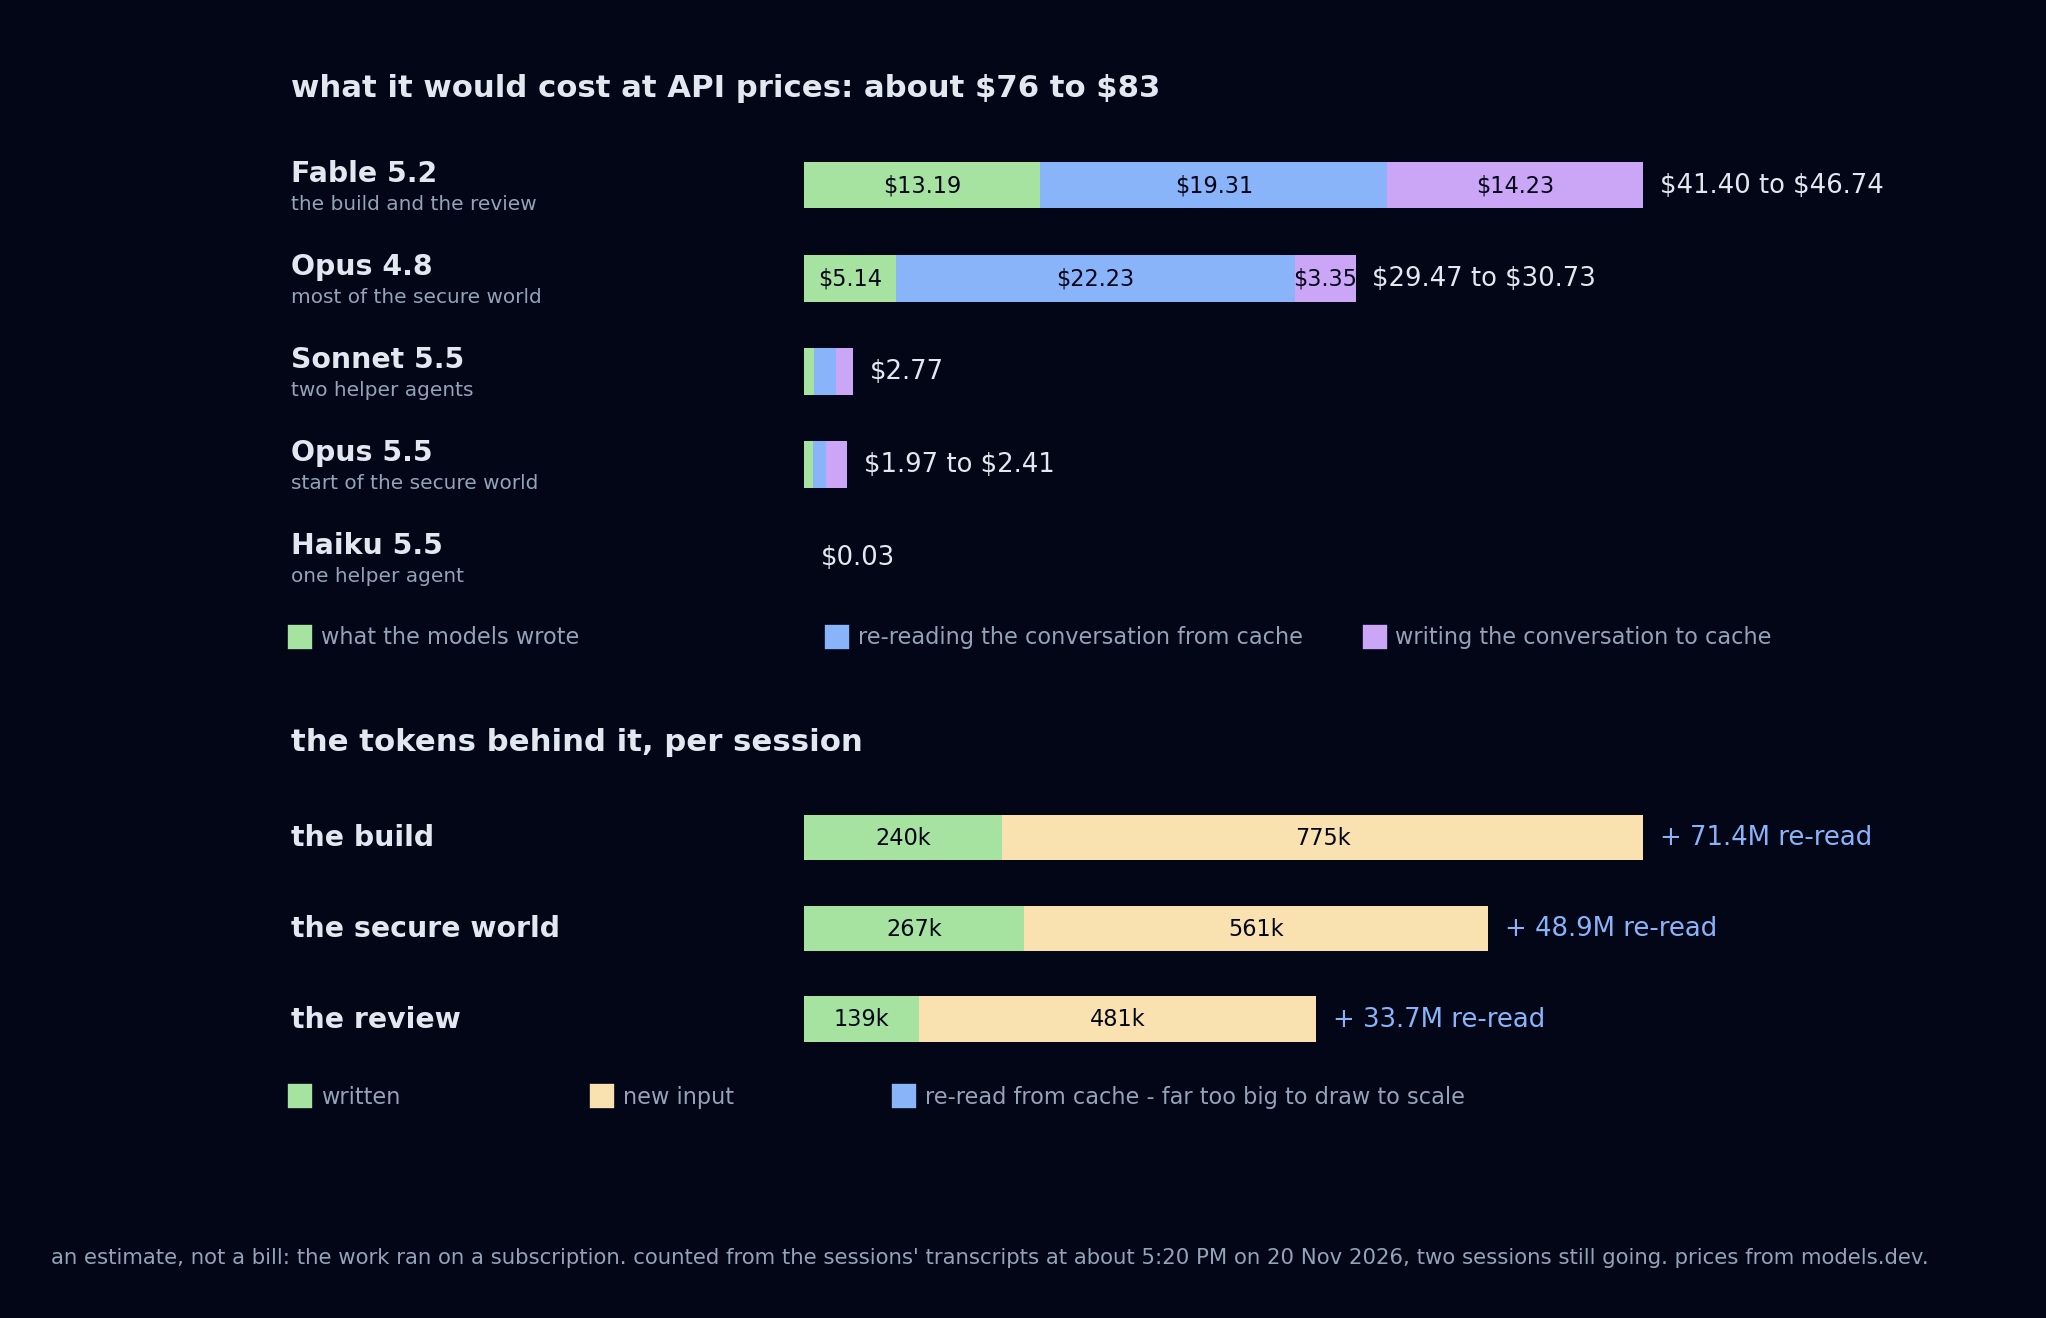
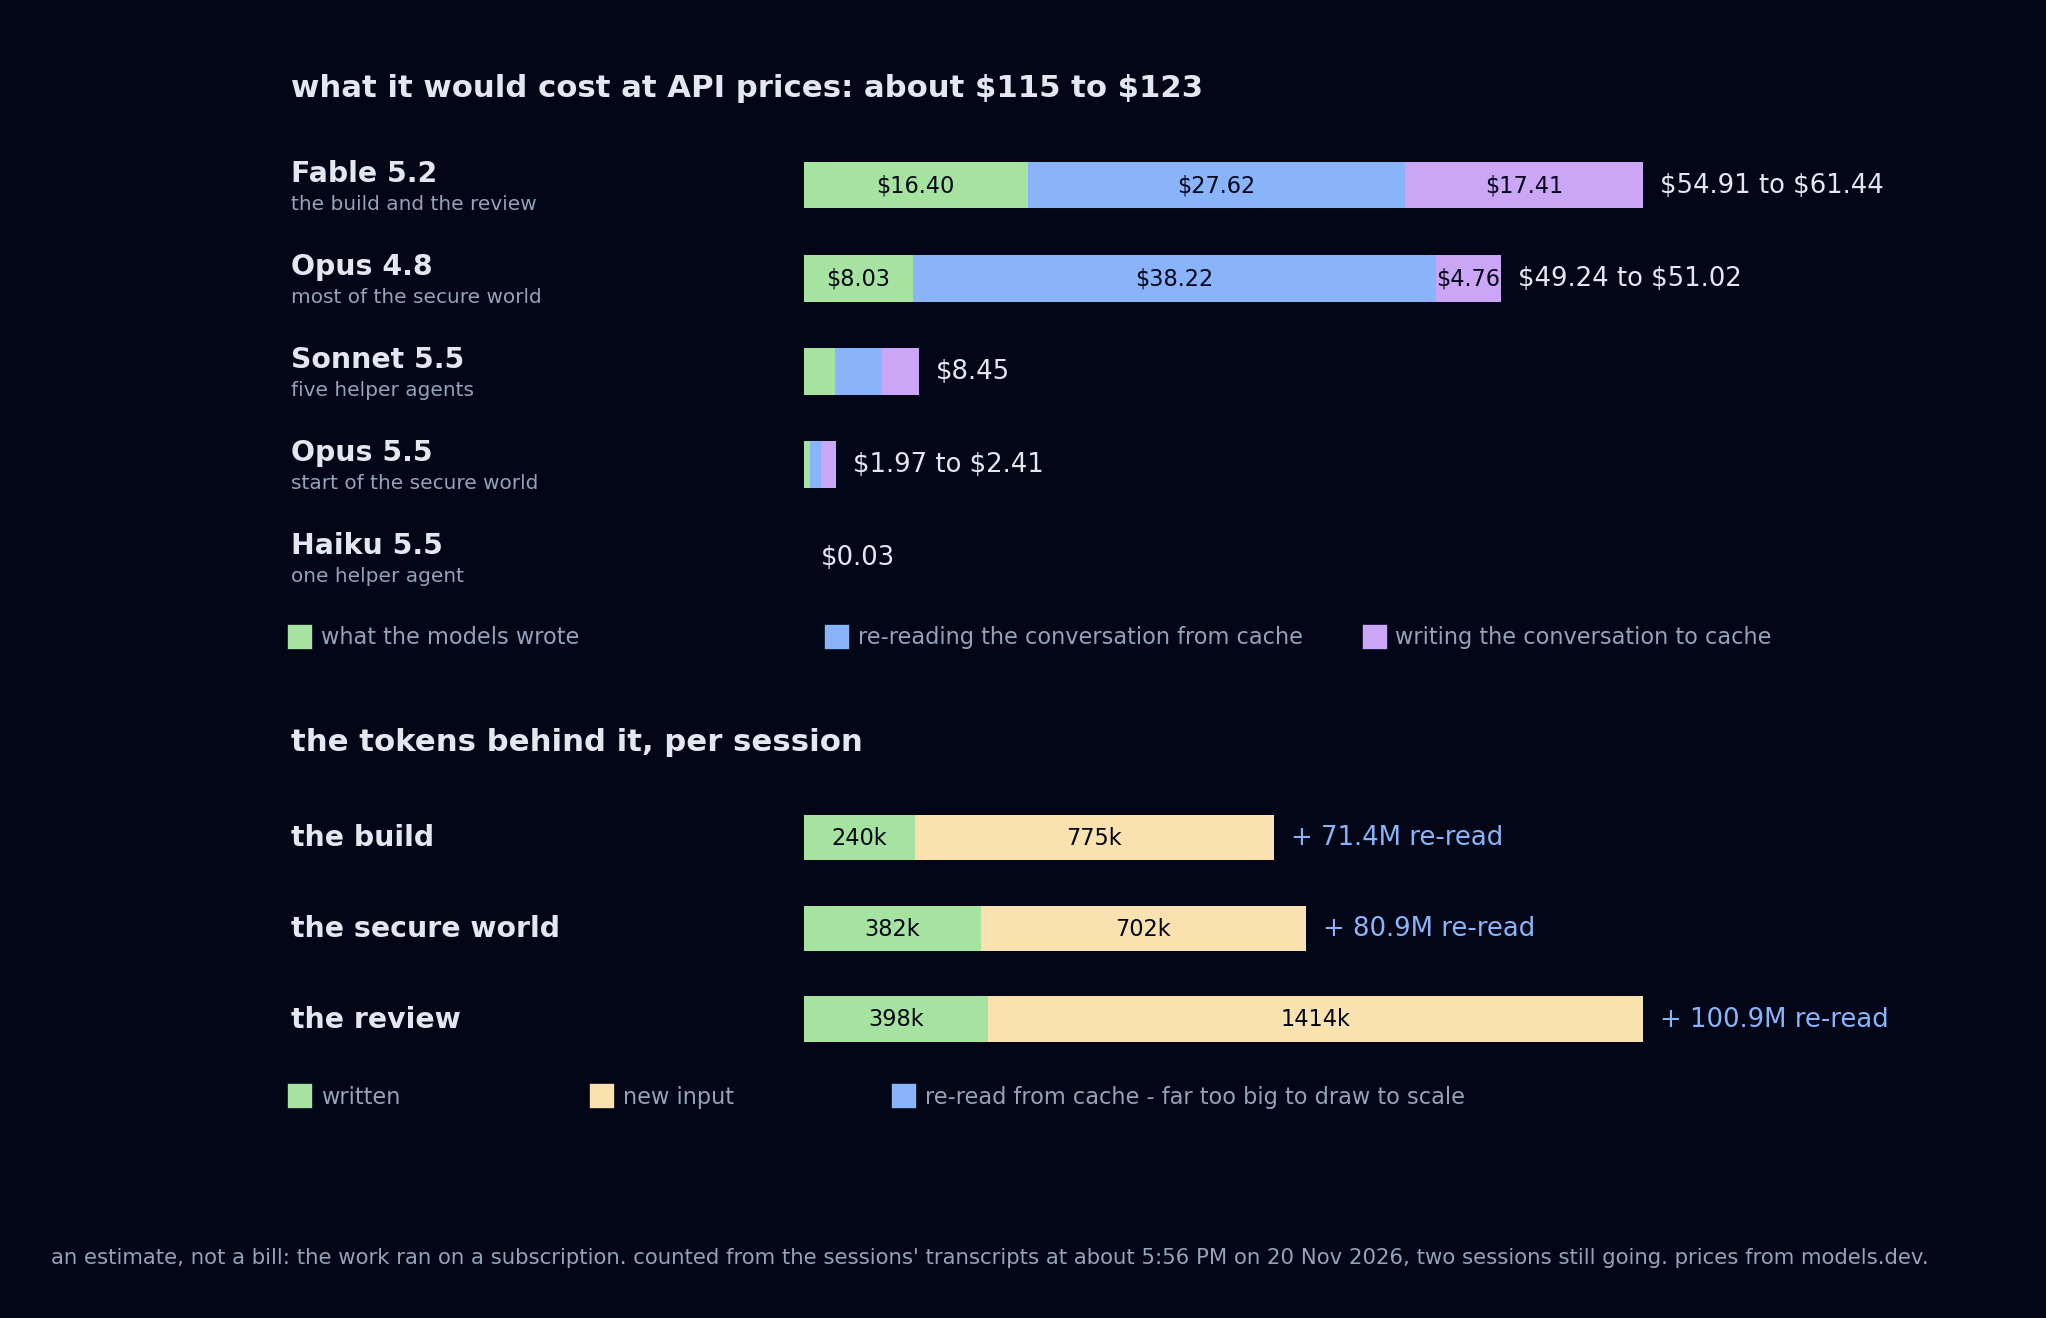
Charts redrawn from the 5:56 PM recount: 974 tool calls, about $115 to $123 at API prices
The recount takes in every helper agent of the three sessions (the diagram worker and both blind readers were not in the 5:20 PM snapshot) and 36 more minutes of work. Two sessions were still running, so it is still a snapshot.

diff --git a/tools/cost_chart.py b/tools/cost_chart.py
@@ -3,7 +3,7 @@
 and the tokens behind it.
 
 No firmware needed, the numbers are written in below. Tokens were counted from
-the three sessions' transcripts (and their helper agents) at about 5:20 PM on
+the three sessions' transcripts (and their helper agents) at about 5:56 PM on
 20 Nov 2026 with two sessions still going, so this is a snapshot. Prices are
 USD per million tokens from models.dev, read the same day. The work ran on a
 subscription: this is an estimate of the per-token price, not a bill.
@@ -28,17 +28,17 @@ OUT = "#a6e3a1"; READ = "#89b4fa"; WRITE = "#cba6f7"; NEW = "#f9e2af"
 # model, where it ran, uncached in, output, cache read, cache write,
 # prices (input, output, cache read, cache write), one-hour cache (True/False)
 MODELS = [
-    ("Fable 5.2", "the build and the review", 736, 329674, 96567949, 889380, (8, 40, 0.2, 10), True),
-    ("Opus 4.8", "most of the secure world", 284, 205770, 44467067, 334808, (5, 25, 0.5, 6.25), True),
-    ("Sonnet 5.5", "two helper agents", 190, 59008, 12128201, 386143, (2, 10, 0.1, 2.5), False),
+    ("Fable 5.2", "the build and the review", 902, 410031, 138119018, 1087840, (8, 40, 0.2, 10), True),
+    ("Opus 4.8", "most of the secure world", 400, 321312, 76446581, 476338, (5, 25, 0.5, 6.25), True),
+    ("Sonnet 5.5", "five helper agents", 526, 227991, 34245203, 1099116, (2, 10, 0.1, 2.5), False),
     ("Opus 5.5", "start of the secure world", 74, 24871, 3768173, 144437, (4, 20, 0.2, 5), True),
     ("Haiku 5.5", "one helper agent", 30, 36274, 637626, 81089, (0.1, 0.5, 0.01, 0.125), False),
 ]
 # session, written, new input, re-read from cache (tokens)
 SESSIONS = [
     ("the build", 240_000, 775_000, 71_400_000),
-    ("the secure world", 267_000, 561_000, 48_900_000),
-    ("the review", 139_000, 481_000, 33_700_000),
+    ("the secure world", 382_000, 702_000, 80_900_000),
+    ("the review", 398_000, 1_414_000, 100_900_000),
 ]
 
 out = sys.argv[1] if len(sys.argv) > 1 else os.path.join(
@@ -111,7 +111,7 @@ for j, (colour, text) in enumerate(((OUT, "written"), (NEW, "new input"),
     b.text(x + wide * 0.025, -0.95, text, ha="left", va="center", fontsize=9.5, color=MUTED)
 
 fig.text(0.02, 0.01, "an estimate, not a bill: the work ran on a subscription. counted from the sessions' transcripts "
-         "at about 5:20 PM on 20 Nov 2026, two sessions still going. prices from models.dev.",
+         "at about 5:56 PM on 20 Nov 2026, two sessions still going. prices from models.dev.",
          fontsize=9, color=MUTED)
 fig.subplots_adjust(hspace=0.08)
 fig.savefig(out, bbox_inches="tight", pad_inches=0.3)

diff --git a/tools/tool_calls_chart.py b/tools/tool_calls_chart.py
@@ -4,7 +4,7 @@ was built and read, split by kind.
 
 No firmware needed, the numbers are written in below. They were counted from
 the three sessions' own transcripts (and their helper agents) at about
-5:19 PM on 20 Nov 2026, while two of the sessions were still going - a
+5:56 PM on 20 Nov 2026, while two of the sessions were still going - a
 snapshot, not a final tally. The transcripts aren't in the repo.
 
 usage: python3 tools/tool_calls_chart.py [output.png]
@@ -23,8 +23,8 @@ KINDS = [("shell commands", "#89b4fa"), ("REA (Ghidra)", "#a6e3a1"),
 # session, what it did, [shell, REA, file tools, everything else]
 ROWS = [
     ("the build", "phases 0 to 4: the outline, the how-to, the first bootloader read", [224, 21, 14, 10]),
-    ("the secure world", "phases 5 and 6: Trusty, the comparison, the README", [120, 15, 49, 10]),
-    ("the review", "checking the claims, then the deep read of lk", [117, 42, 9, 22]),
+    ("the secure world", "phases 5 and 6: Trusty, the comparison, the README", [142, 15, 76, 13]),
+    ("the review", "checking the claims, the deep read of lk, two blind reads", [329, 49, 42, 39]),
 ]
 
 out = sys.argv[1] if len(sys.argv) > 1 else os.path.join(
@@ -59,6 +59,6 @@ for j, (kind, colour) in enumerate(KINDS):
 total = sum(sum(r[2]) for r in ROWS)
 rea = sum(r[2][1] for r in ROWS)
 fig.text(0.02, 0.01, f"{total} tool calls in all, {rea} of them REA. counted from the sessions' transcripts "
-         "at about 5:19 PM on 20 Nov 2026, with two sessions still going.", fontsize=9, color=MUTED)
+         "at about 5:56 PM on 20 Nov 2026, with two sessions still going.", fontsize=9, color=MUTED)
 fig.savefig(out, bbox_inches="tight", pad_inches=0.3)
 print(out)
